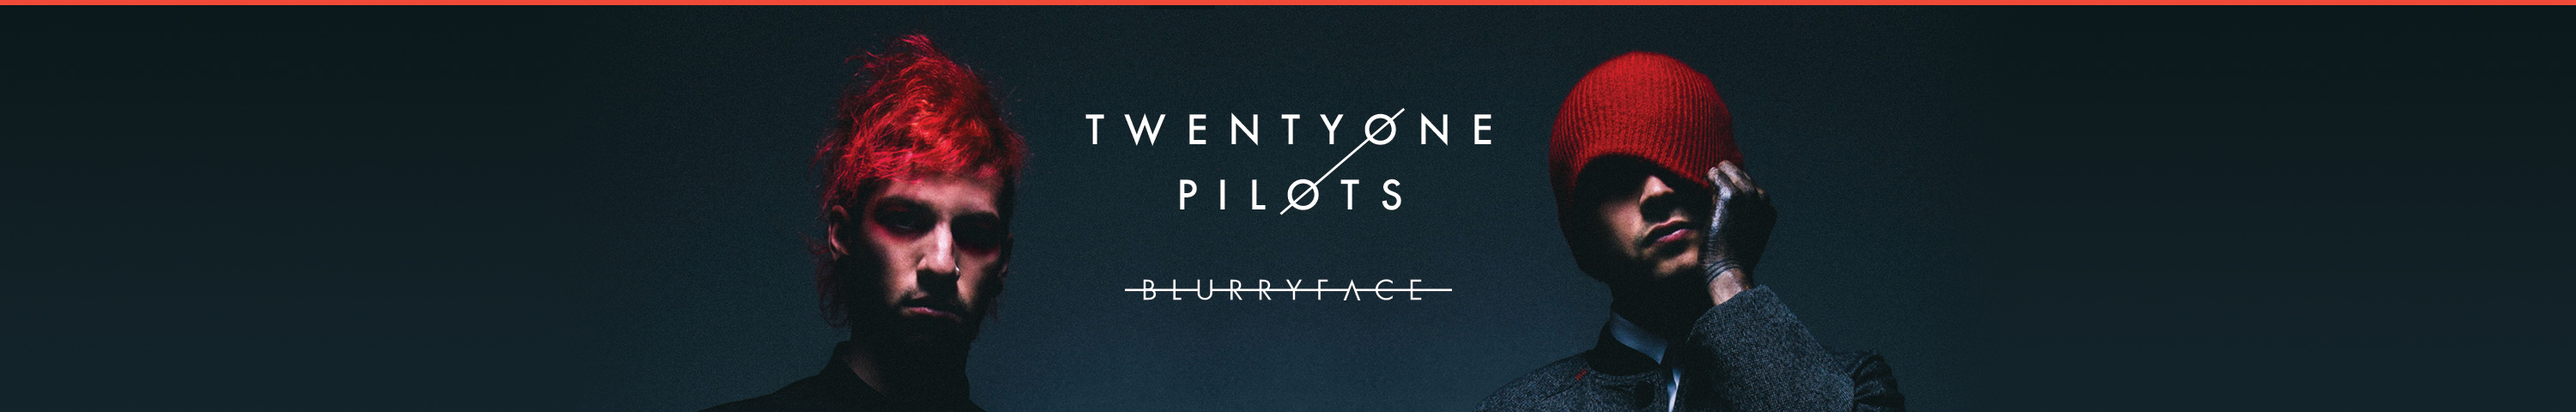
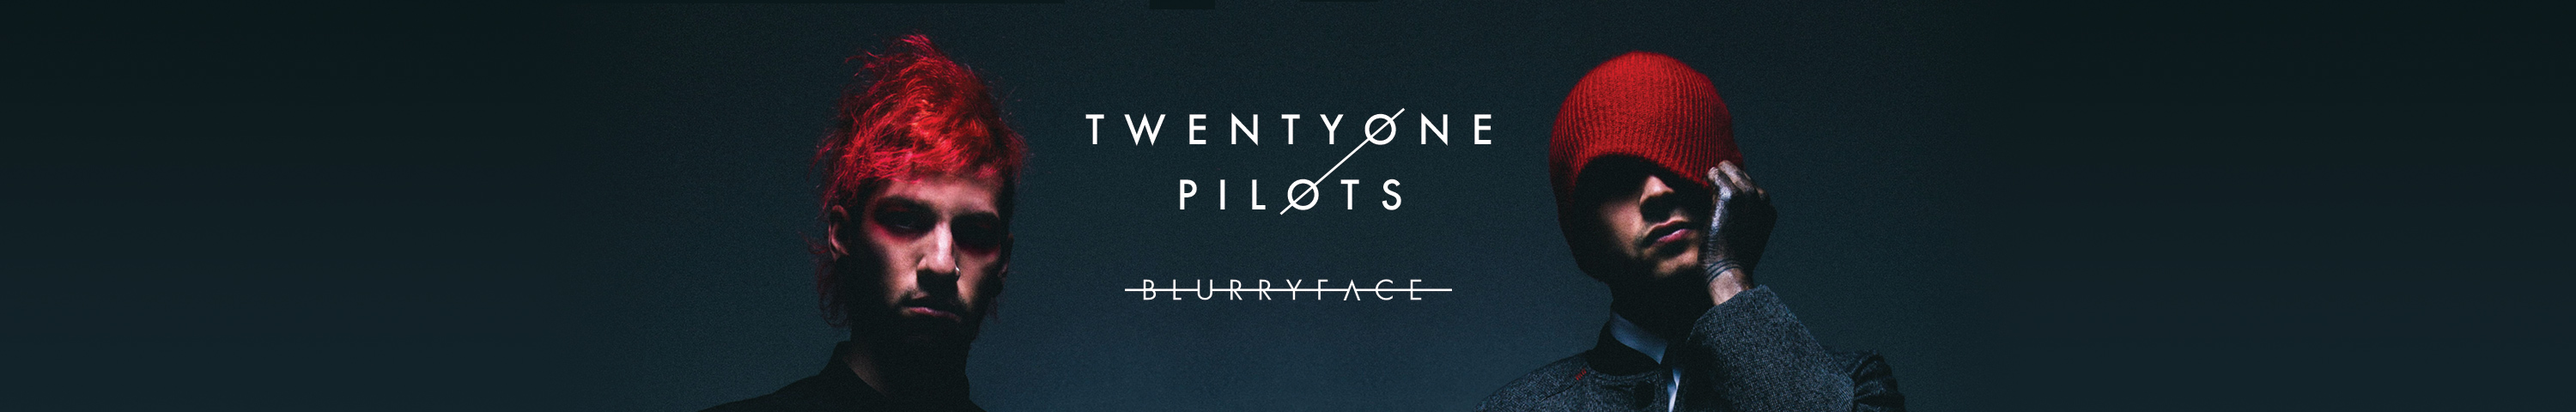
Made header image expand to any width

Changed region(s): [[0.0, 0.0, 1.0, 0.0312]]

diff --git a/src/custom.scss b/src/custom.scss
@@ -29,7 +29,7 @@
     margin-top: -16px;
 
     a {
-        background-image: url(%%headerimg%%);
+        background-image: url(%%headerimg%%), -webkit-linear-gradient(top, #0c191b, #13242b);
         background-repeat: no-repeat;
         background-position: center 0;
         font-size: 0px;
@@ -38,7 +38,8 @@
         height: 100%;
         background-size: auto 100%;
         margin: 0px;
-
+        border-top: 3px solid #F04937;
+        
         &:before {
             content: '';
         }
